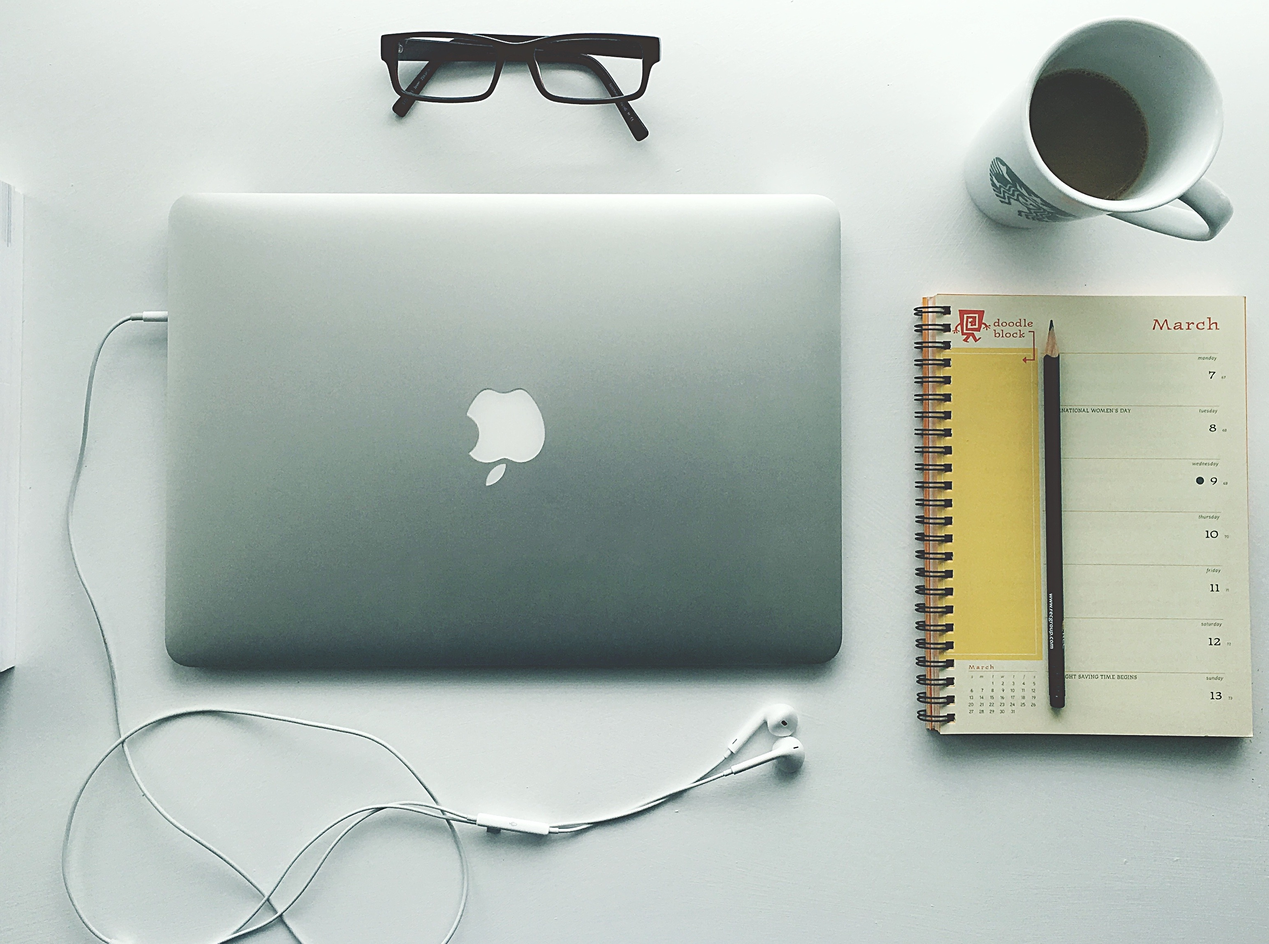
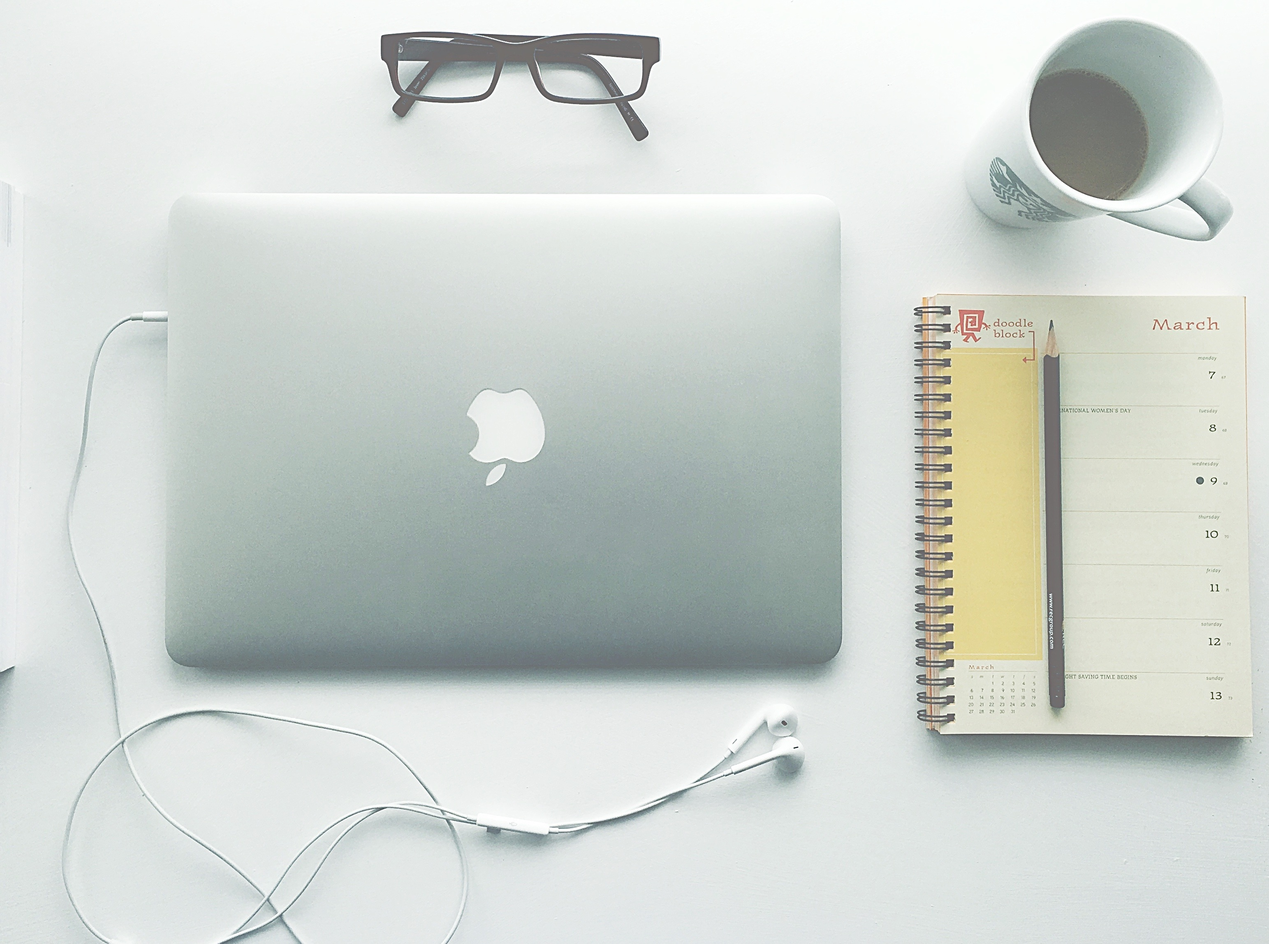
change css and image color

diff --git a/css/styles.css b/css/styles.css
@@ -6,24 +6,7 @@ COLOR PALETTE
 #FFE66D - yellow
 #A1C6D7 - blue light
 */
-/*Responsive styles*/
-@media screen and (min-width: 750px) {
-  .education {
-    background-image: url(../images/web_design_notebook_computer.jpg);
-    background-position: top right;
-    background-size: cover;
-    padding-top: 150px;
-  }
-  .project-item img {
-    float: left;
-    margin-right: 20px;
-  }
-  .job-item {
-    display: grid;
-    grid-template-columns: 1fr 2fr;
-    column-gap: 20px;
-  }
-}
+
 /* Global styles
 ------------------------------------*/
 
@@ -140,17 +123,40 @@ header {
 footer {
   background: #4b4453;
   color: #f7fff7;
-  text-align: center;
 }
-
-.contact-list {
-  list-style: none;
-  padding: 0;
-  display: flex;
-  justify-content: center;
-  flex-wrap: wrap;
+footer li {
+  list-style-type: none;
+  padding: 5px;
 }
-.contact-list a {
-  padding: 15px;
-  display: inline-block;
+/*-------------Responsive styles--------------*/
+@media screen and (min-width: 750px) {
+  .education {
+    background-image: url(../images/web_design_notebook_computer.jpg);
+    background-position: top right;
+    background-size: cover;
+    padding-top: 150px;
+  }
+  .project-item img {
+    float: left;
+    margin-right: 20px;
+  }
+  .job-item {
+    display: grid;
+    grid-template-columns: 1fr 2fr;
+    column-gap: 20px;
+  }
+  footer {
+    text-align: center;
+  }
+  .contact-list {
+    list-style: none;
+    padding: 0;
+    display: flex;
+    justify-content: center;
+    flex-wrap: wrap;
+  }
+  .contact-list a {
+    padding: 15px;
+    display: inline-block;
+  }
 }
